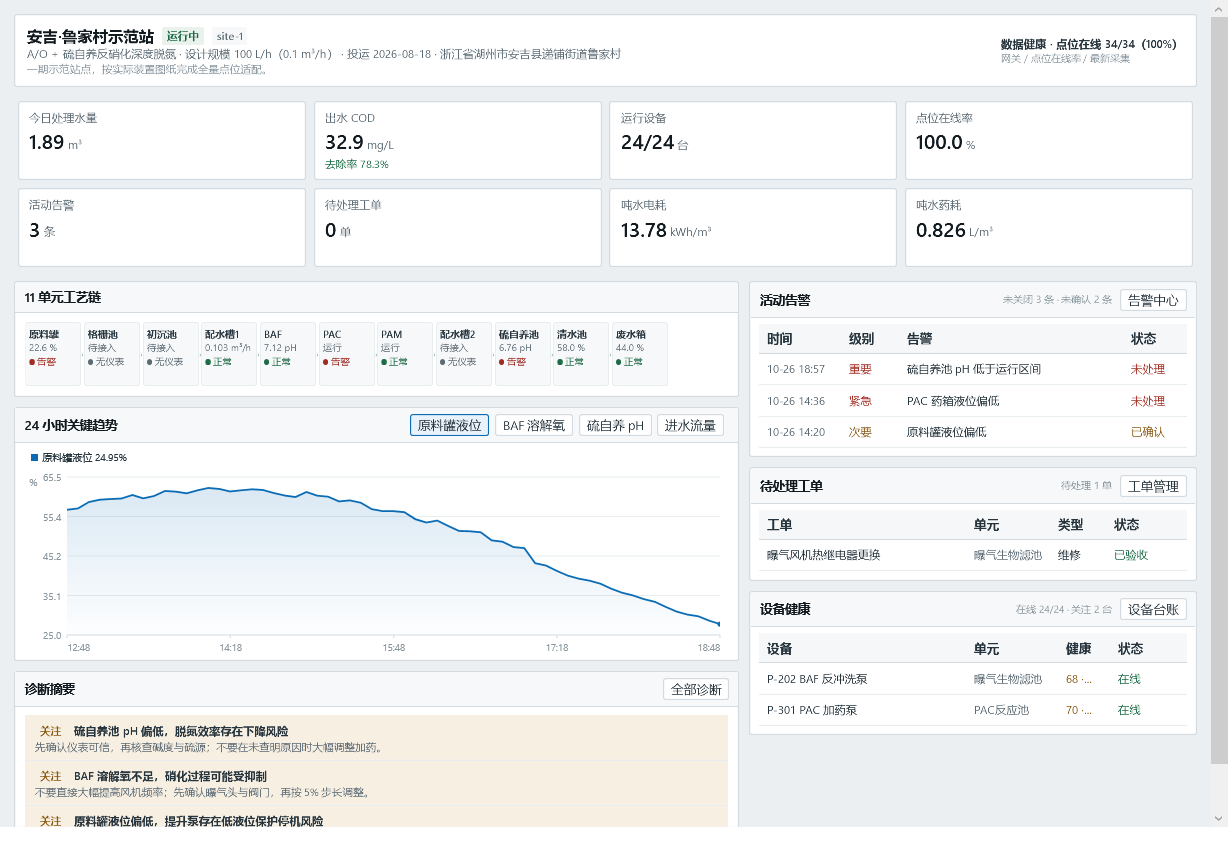
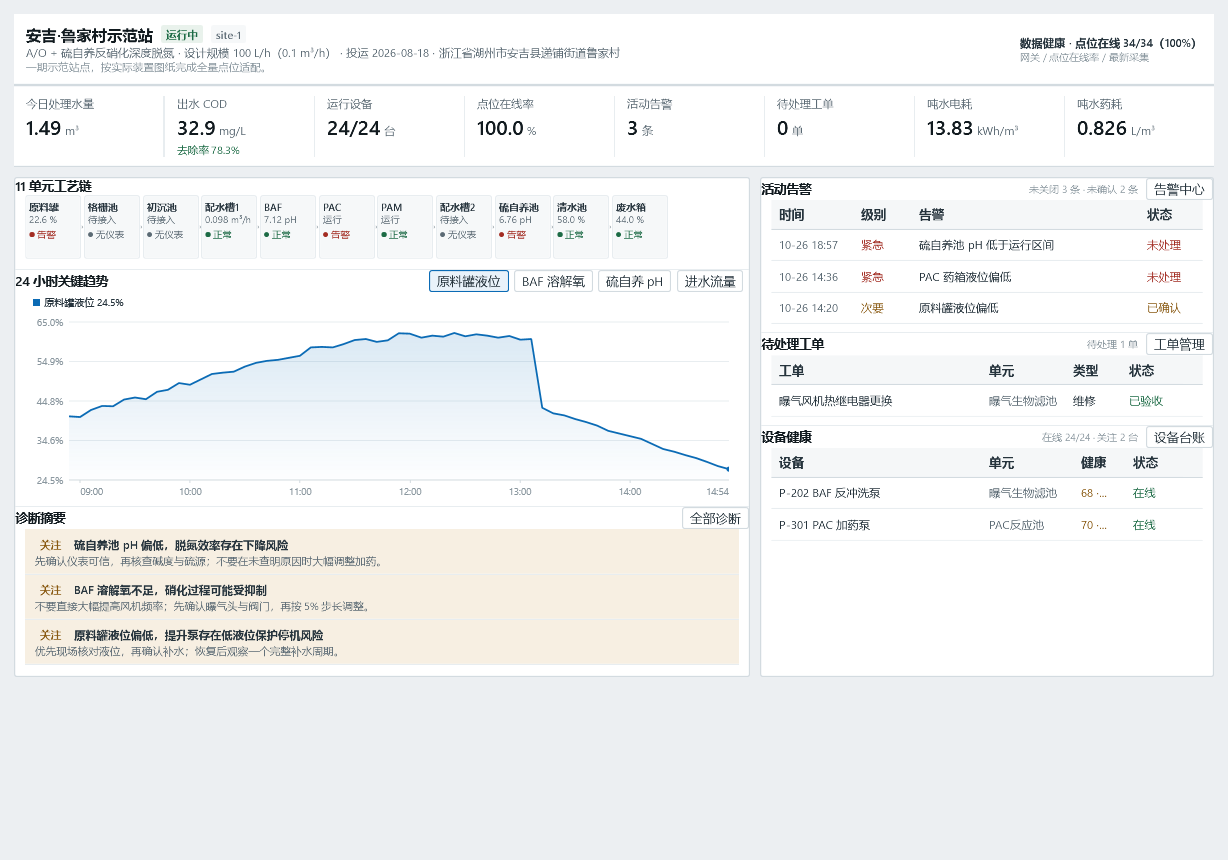
refactor(desktop): 驾驶舱去卡片化，指标带 + 双面板细线分区

diff --git a/native/ZhifuWater.Desktop/Pages/DashboardPage.cs b/native/ZhifuWater.Desktop/Pages/DashboardPage.cs
@@ -12,7 +12,7 @@ namespace ZhifuWater.Desktop.Pages;
 
 public sealed class DashboardPage : PageBase
 {
-    private UniformGrid _kpiHost = null!;
+    private Grid _kpiGrid = null!;
     private StackPanel _chainPanel = null!;
     private LineChart _trend = null!;
     private StackPanel _diagPanel = null!;
@@ -35,27 +35,33 @@ public sealed class DashboardPage : PageBase
         var root = new StackPanel();
         root.Children.Add(BuildSiteBar());
 
-        _kpiHost = new UniformGrid { Columns = 4, Margin = new Thickness(0, 10, 0, 0) };
-        root.Children.Add(_kpiHost);
+        _kpiGrid = new Grid();
+        root.Children.Add(new Border
+        {
+            Background = Pal.Surface,
+            BorderBrush = Pal.Line,
+            BorderThickness = new Thickness(0, 1, 0, 1),
+            Child = _kpiGrid,
+        });
 
         var columns = new Grid { Margin = new Thickness(0, 10, 0, 0) };
         columns.ColumnDefinitions.Add(new ColumnDefinition { Width = new GridLength(1.62, GridUnitType.Star) });
         columns.ColumnDefinitions.Add(new ColumnDefinition { Width = new GridLength(10) });
         columns.ColumnDefinitions.Add(new ColumnDefinition { Width = new GridLength(1, GridUnitType.Star) });
 
-        var left = new StackPanel();
-        left.Children.Add(BuildProcessCard());
-        left.Children.Add(Gap());
-        left.Children.Add(BuildTrendCard());
-        left.Children.Add(Gap());
-        left.Children.Add(BuildDiagnosisCard());
+        var left = Kit.Panel(Kit.Col(0,
+            BuildProcessSection(),
+            Kit.Divider(0, 0),
+            BuildTrendSection(),
+            Kit.Divider(0, 0),
+            BuildDiagnosisSection()));
 
-        var right = new StackPanel();
-        right.Children.Add(BuildAlarmCard());
-        right.Children.Add(Gap());
-        right.Children.Add(BuildWorkOrderCard());
-        right.Children.Add(Gap());
-        right.Children.Add(BuildDeviceCard());
+        var right = Kit.Panel(Kit.Col(0,
+            BuildAlarmSection(),
+            Kit.Divider(0, 0),
+            BuildWorkOrderSection(),
+            Kit.Divider(0, 0),
+            BuildDeviceSection()));
 
         Grid.SetColumn(left, 0);
         Grid.SetColumn(right, 2);
@@ -66,7 +72,6 @@ public sealed class DashboardPage : PageBase
         Install(Kit.Scroll(root));
     }
 
-    private static Border Gap() => new() { Height = 10 };
 
     private UIElement BuildSiteBar()
     {
@@ -93,7 +98,14 @@ public sealed class DashboardPage : PageBase
         grid.Children.Add(left);
         grid.Children.Add(health);
 
-        return Kit.Card(null, grid, null, null, new Thickness(12, 10, 12, 10));
+        return new Border
+        {
+            Background = Pal.Surface,
+            BorderBrush = Pal.Line,
+            BorderThickness = new Thickness(0, 0, 0, 1),
+            Padding = new Thickness(12, 10, 12, 10),
+            Child = grid,
+        };
     }
 
     private readonly System.Collections.Generic.HashSet<string> _trendPicked = new() { "RAW.LVL" };
@@ -106,7 +118,7 @@ public sealed class DashboardPage : PageBase
         ("FLOW.IN", "进水流量", "#2A5F8A"),
     };
 
-    private UIElement BuildProcessCard()
+    private UIElement BuildProcessSection()
     {
         _chainPanel = new StackPanel { Orientation = Orientation.Horizontal, VerticalAlignment = VerticalAlignment.Center };
         var scroll = new ScrollViewer
@@ -115,10 +127,11 @@ public sealed class DashboardPage : PageBase
             VerticalScrollBarVisibility = ScrollBarVisibility.Disabled,
             Content = _chainPanel,
         };
-        return Kit.Card("11 单元工艺链", scroll, null, null, new Thickness(10, 9, 10, 10));
+        return Kit.Col(0, Kit.SectionHead("11 单元工艺链"),
+            new Border { Padding = new Thickness(10, 0, 10, 10), Child = scroll });
     }
 
-    private UIElement BuildTrendCard()
+    private UIElement BuildTrendSection()
     {
         _trend = new LineChart { Height = 208, YUnit = "", NormalizePerSeries = false, EnablePan = true, ViewWindow = TimeSpan.FromHours(6), ToolTip = "左右拖动查看历史 · 滚轮缩放 · 双击回到最新" };
         var chips = new StackPanel { Orientation = Orientation.Horizontal, VerticalAlignment = VerticalAlignment.Center };
@@ -132,7 +145,8 @@ public sealed class DashboardPage : PageBase
             _trendChips.Add((code, button, label, hex));
             chips.Children.Add(button);
         }
-        return Kit.Card("24 小时关键趋势", _trend, chips, null, new Thickness(8, 4, 8, 4));
+        return Kit.Col(0, Kit.SectionHead("24 小时关键趋势", chips),
+            new Border { Padding = new Thickness(10, 0, 10, 6), Child = _trend });
     }
 
     private void ToggleTrend(string code)
@@ -166,48 +180,68 @@ public sealed class DashboardPage : PageBase
         }
     }
 
-    private UIElement BuildDiagnosisCard()
+    private UIElement BuildDiagnosisSection()
     {
         _diagPanel = new StackPanel();
-        return Kit.Card("诊断摘要", _diagPanel,
-            Kit.Btn("全部诊断", () => Host.ShowPage("diagnosis"), small: true), null, new Thickness(10, 8, 10, 10));
+        return Kit.Col(0, Kit.SectionHead("诊断摘要",
+                Kit.Btn("全部诊断", () => Host.ShowPage("diagnosis"), small: true)),
+            new Border { Padding = new Thickness(10, 0, 10, 10), Child = _diagPanel });
     }
 
-    private UIElement BuildAlarmCard()
+    private UIElement BuildAlarmSection()
     {
         _alarmTable = Table(new[] { "时间", "级别", "告警", "状态" }, new double[] { 82, 58, 0, 62 },
             row => Host.ShowPage("alarms"));
         _alarmSummary = Kit.T("", 10, Pal.Muted2);
-        return Kit.Card("活动告警", _alarmTable,
-            Kit.Row(8, _alarmSummary, Kit.Btn("告警中心", () => Host.ShowPage("alarms"), small: true)),
-            null, new Thickness(8, 6, 8, 8));
+        return Kit.Col(0, Kit.SectionHead("活动告警",
+                Kit.Row(8, _alarmSummary, Kit.Btn("告警中心", () => Host.ShowPage("alarms"), small: true))),
+            new Border { Padding = new Thickness(10, 0, 10, 8), Child = _alarmTable });
     }
 
-    private UIElement BuildWorkOrderCard()
+    private UIElement BuildWorkOrderSection()
     {
         _workTable = Table(new[] { "工单", "单元", "类型", "状态" }, new double[] { 0, 84, 56, 62 },
             row => Host.ShowPage("workorders"));
         _workSummary = Kit.T("", 10, Pal.Muted2);
-        return Kit.Card("待处理工单", _workTable,
-            Kit.Row(8, _workSummary, Kit.Btn("工单管理", () => Host.ShowPage("workorders"), small: true)),
-            null, new Thickness(8, 6, 8, 8));
+        return Kit.Col(0, Kit.SectionHead("待处理工单",
+                Kit.Row(8, _workSummary, Kit.Btn("工单管理", () => Host.ShowPage("workorders"), small: true))),
+            new Border { Padding = new Thickness(10, 0, 10, 8), Child = _workTable });
     }
 
-    private UIElement BuildDeviceCard()
+    private UIElement BuildDeviceSection()
     {
         _deviceTable = Table(new[] { "设备", "单元", "健康", "状态" }, new double[] { 0, 92, 52, 58 },
             row => Host.ShowPage("devices"));
         _deviceSummary = Kit.T("", 10, Pal.Muted2);
-        return Kit.Card("设备健康", _deviceTable,
-            Kit.Row(8, _deviceSummary, Kit.Btn("设备台账", () => Host.ShowPage("devices"), small: true)),
-            null, new Thickness(8, 6, 8, 8));
+        return Kit.Col(0, Kit.SectionHead("设备健康",
+                Kit.Row(8, _deviceSummary, Kit.Btn("设备台账", () => Host.ShowPage("devices"), small: true))),
+            new Border { Padding = new Thickness(10, 0, 10, 8), Child = _deviceTable });
+    }
+
+    private void FillKpiBand()
+    {
+        _kpiGrid.Children.Clear();
+        _kpiGrid.ColumnDefinitions.Clear();
+        var kpis = Svc.Data.DashboardKpis().ToList();
+        for (var i = 0; i < kpis.Count; i++)
+        {
+            _kpiGrid.ColumnDefinitions.Add(new ColumnDefinition { Width = new GridLength(1, GridUnitType.Star) });
+            var cell = Kit.KpiCell(kpis[i]);
+            Grid.SetColumn(cell, _kpiGrid.ColumnDefinitions.Count - 1);
+            _kpiGrid.Children.Add(cell);
+            if (i < kpis.Count - 1)
+            {
+                _kpiGrid.ColumnDefinitions.Add(new ColumnDefinition { Width = GridLength.Auto });
+                var sep = new Border { Width = 1, Background = Pal.LineSoft, Margin = new Thickness(0, 9, 0, 9) };
+                Grid.SetColumn(sep, _kpiGrid.ColumnDefinitions.Count - 1);
+                _kpiGrid.Children.Add(sep);
+            }
+        }
     }
 
     protected override void RefreshData()
     {
-        _kpiHost.Children.Clear();
-        foreach (var kpi in Svc.Data.DashboardKpis())
-            _kpiHost.Children.Add(Kit.Kpi(kpi));
+        FillKpiBand();
 
         var health = Svc.Data.DataHealth();
         var rate = health.PointsTotal == 0 ? 0 : health.PointsOnline * 100 / health.PointsTotal;

diff --git a/native/ZhifuWater.Desktop/Ui/UiKit.cs b/native/ZhifuWater.Desktop/Ui/UiKit.cs
@@ -127,6 +127,47 @@ public static class Kit
         return outer;
     }
 
+    public static Grid SectionHead(string title, UIElement? right = null, string? subtitle = null)
+    {
+        var grid = new Grid { Margin = new Thickness(12, 9, 12, 7) };
+        grid.ColumnDefinitions.Add(new ColumnDefinition { Width = new GridLength(1, GridUnitType.Star) });
+        grid.ColumnDefinitions.Add(new ColumnDefinition { Width = GridLength.Auto });
+        var titles = new StackPanel { Orientation = Orientation.Horizontal, VerticalAlignment = VerticalAlignment.Center };
+        titles.Children.Add(CardTitle(title));
+        if (!string.IsNullOrEmpty(subtitle)) titles.Children.Add(Tiny("  " + subtitle, Pal.Muted2));
+        Grid.SetColumn(titles, 0);
+        grid.Children.Add(titles);
+        if (right != null)
+        {
+            if (right is FrameworkElement fe) fe.VerticalAlignment = VerticalAlignment.Center;
+            Grid.SetColumn(right, 1);
+            grid.Children.Add(right);
+        }
+        return grid;
+    }
+
+    public static Border Panel(UIElement body) => new() { Style = St("Card"), Child = body };
+
+    public static Border KpiCell(KpiInfo kpi)
+    {
+        var tone = string.IsNullOrEmpty(kpi.Tone) ? "normal" : kpi.Tone;
+        var stack = new StackPanel { Orientation = Orientation.Vertical };
+        stack.Children.Add(Small(kpi.Label, Pal.Muted));
+        var valueRow = new StackPanel { Orientation = Orientation.Horizontal, Margin = new Thickness(0, 2, 0, 0) };
+        valueRow.Children.Add(KpiValueText(kpi.Value));
+        if (!string.IsNullOrEmpty(kpi.Unit))
+            valueRow.Children.Add(new TextBlock { Text = " " + kpi.Unit, FontSize = 11, Foreground = Pal.Muted, VerticalAlignment = VerticalAlignment.Bottom, Margin = new Thickness(0, 0, 0, 3) });
+        stack.Children.Add(valueRow);
+        if (!string.IsNullOrEmpty(kpi.Delta))
+            stack.Children.Add(new TextBlock { Text = kpi.Delta, FontSize = 10.5, Foreground = Pal.ToneFg(tone), Margin = new Thickness(0, 2, 0, 0), TextTrimming = TextTrimming.CharacterEllipsis });
+        return new Border
+        {
+            Padding = new Thickness(12, 9, 12, 9),
+            Child = stack,
+            ToolTip = string.IsNullOrEmpty(kpi.Hint) ? null : kpi.Hint + (string.IsNullOrEmpty(kpi.Source) ? "" : "\n来源：" + kpi.Source),
+        };
+    }
+
     public static Border Badge(string text, string tone = "normal")
     {
         return new Border
